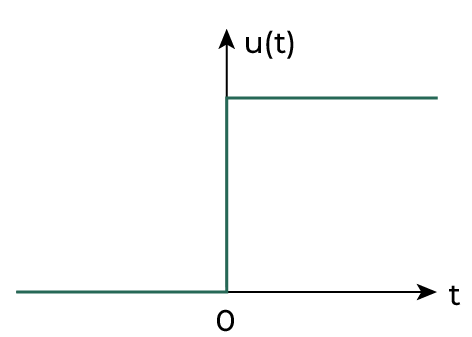
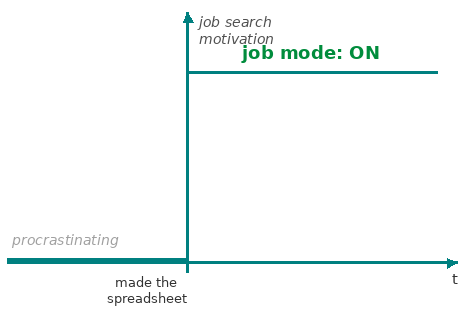
step function

Changed region(s): [[0.0, 0.0291, 0.9788, 0.932], [0.2076, 0.9029, 0.4153, 0.9903], [0.4449, 0.9029, 0.5042, 0.9903]]

diff --git a/_posts/2026-02-23-industry-job-search-cs-phd.md b/_posts/2026-02-23-industry-job-search-cs-phd.md
@@ -8,22 +8,25 @@ categories: [blog]
 ---
 
 
-I recently wrapped up my ML PhD industry job search and experienced firsthand how stressful and overwhelming the process can be. While it's still fresh, I wanted to share what I learned along the way in hopes it might help others navigating the same journey.
+I recently wrapped up my ML PhD industry job search (research scientist position) and experienced how stressful and overwhelming the process can be. While it's still fresh, I wanted to share what I learned along the way in hopes it might help others navigating the same journey.
 
 
-I break this into two parts. **Part 1** covers the end-to-end process: the first thing I did from a "let's graduate" conversation with my advisor, getting my foot in the door, prepping for different interviews, dealing with rejection, and choosing between offers. **Part 2** covers some things I learned the hard way: bouncing back after a bad interview, surviving back-to-back interviews, and how having a support system keeps me sane.
+I break this into two parts. **Part 1** covers the end-to-end process: the first thing I did from a "let's graduate" conversation with my advisor, getting my foot in the door, prepping for different interviews, dealing with rejection, and choosing between offers. **Part 2** covers some things I learned along the way: bouncing back after a bad interview, surviving back-to-back interviews, and how having a support system keeps me sane.
 
 # Part 1: Job search end-to-end
-Last Fall I was in the first half of my 5th year, just wrapping up an internship where I realized I can now drive and own a project end to end; some stuff I learned during my internship even inspired me to kick off another project in my PhD. Really back then I was still comfortable being a PhD student. Suddenly my advisor brings up graduating next spring.
+Last Fall I was in the first half of my 5th year, just wrapping up an internship and was excited to get back to school to kick off some new PhD projects. Back then I was still comfortable being a PhD student where I can freely explore even the most unhinged curiosities. Suddenly my advisor brings up graduating next spring.
 
 <div style="display: flex; justify-content: center; margin: 1.5rem 0 3rem 0;">
-  <div class="tenor-gif-embed" data-postid="16491396616893958961" data-share-method="host" data-aspect-ratio="1" data-width="100%" style="width: min(100%, 55%);"><a href="https://tenor.com/view/bobawooyo-dog-confused-dog-huh-dog-meme-shocked-dog-gif-16491396616893958961">Bobawooyo Dog Confused GIF</a>from <a href="https://tenor.com/search/bobawooyo-gifs">Bobawooyo GIFs</a></div>
+  <div class="tenor-gif-embed" data-postid="16491396616893958961" data-share-method="host" data-aspect-ratio="1" data-width="60%" style="width: min(100%, 55%);"><a href="https://tenor.com/view/bobawooyo-dog-confused-dog-huh-dog-meme-shocked-dog-gif-16491396616893958961">Bobawooyo Dog Confused GIF</a>from <a href="https://tenor.com/search/bobawooyo-gifs">Bobawooyo GIFs</a></div>
 </div>
 <script type="text/javascript" async src="https://tenor.com/embed.js"></script>
 
-It all feels overwhelming at once. How do I even start? With PhD research projects still ongoing too, it's very tempting to procrastinate, but I eventually realized my advisor brought up graduation for a reason. I was indeed ready for independent research and carve my path outside of the lab. So what was the first step? 
+It all feels overwhelming. How do I even start? With PhD research projects still ongoing, it was very tempting to procrastinate (and I did, for a while). But I eventually realized my advisor brought up graduation for a reason. I was indeed ready for independent research and to carve my path outside of the lab.
+
+**My "job mode on" switch didn't really activate until I took my advisor's advice to start getting organized**: I made a spreadsheet to track places I applied to (or was going to apply to). Looking back, this making it official makes a lot of sense. We ML PhD students are used to filling up tables and feeling a sense of accomplishment from it (re: experiment tables :wink:). The sheet literally looks like this:
 
 <div style="display: flex; flex-direction: column; align-items: center; gap: 1.25rem; margin: 2rem 0;">
   <img src="{{ '/assets/img/blog/excel.png' | relative_url }}" alt="Excel screenshot" style="width: 100%; height: auto;" />
   <img src="{{ '/assets/img/blog/step_fn.png' | relative_url }}" alt="Step function figure" style="width: 55%; height: auto;" />
 </div>
+
